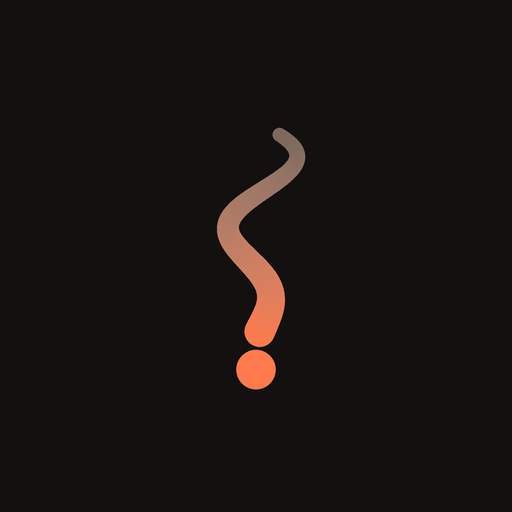
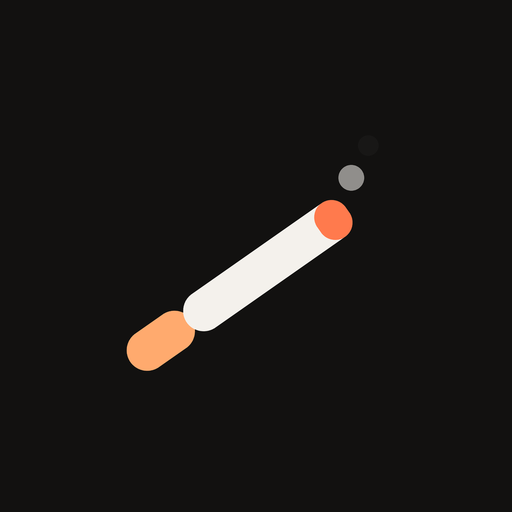
Add files via upload

Changed region(s): [[0.25, 0.25, 0.7188, 0.7812]]

diff --git a/index .html b/index .html
@@ -1,0 +1,238 @@
+<!DOCTYPE html>
+<html lang="en"><head><meta charset="utf-8">
+<meta name="viewport" content="width=device-width, initial-scale=1, viewport-fit=cover">
+<title>Smokies</title>
+<link rel="manifest" href="manifest.webmanifest">
+<meta name="theme-color" content="#121110">
+<meta name="mobile-web-app-capable" content="yes">
+<meta name="apple-mobile-web-app-capable" content="yes">
+<meta name="apple-mobile-web-app-title" content="Smokies">
+<meta name="apple-mobile-web-app-status-bar-style" content="black-translucent">
+<link rel="apple-touch-icon" href="icon-192.png">
+<style>
+:root{--bg:#f4f1ec;--card:#fff;--ink:#1d1b19;--mute:#7a736b;--line:#e8e2da;--acc:#ff6b3d;--soft:#ffe3d8;--good:#2fa36b;--bad:#e5484d;color-scheme:light;box-sizing:border-box;padding-top:env(safe-area-inset-top,0px);padding-bottom:env(safe-area-inset-bottom,0px)}
+@media (prefers-color-scheme:dark){:root:not([data-theme="light"]){--bg:#121110;--card:#1c1a18;--ink:#f3efe9;--mute:#9a9188;--line:#2d2925;--acc:#ff7a4d;--soft:#3a2419;--good:#3ccf8e;--bad:#ff6369;color-scheme:dark}}
+:root[data-theme="dark"]{--bg:#121110;--card:#1c1a18;--ink:#f3efe9;--mute:#9a9188;--line:#2d2925;--acc:#ff7a4d;--soft:#3a2419;--good:#3ccf8e;--bad:#ff6369;color-scheme:dark}
+html{scroll-padding-top:env(safe-area-inset-top,0px)}
+*{box-sizing:border-box}
+body{margin:0;background:var(--bg);color:var(--ink);font-family:-apple-system,BlinkMacSystemFont,"Segoe UI",Roboto,Helvetica,Arial,sans-serif;-webkit-font-smoothing:antialiased}
+.wrap{max-width:720px;margin:0 auto;padding:20px 16px 48px}
+h1{font-size:28px;letter-spacing:-.02em;margin:6px 0 2px}
+.sub{color:var(--mute);font-size:14px;margin:0 0 18px}
+.card{background:var(--card);border:1px solid var(--line);border-radius:22px;padding:18px;margin-bottom:14px}
+.card h2{font-size:12px;text-transform:uppercase;letter-spacing:.09em;color:var(--mute);margin:0 0 12px;font-weight:600}
+.hero{display:flex;align-items:center;gap:18px;flex-wrap:wrap}
+.ring{position:relative;width:150px;height:150px;flex:none}
+.ring .n{position:absolute;inset:0;display:flex;flex-direction:column;align-items:center;justify-content:center}
+.ring .n b{font-size:44px;line-height:1;letter-spacing:-.03em}
+.ring .n span{font-size:12px;color:var(--mute);margin-top:4px}
+.since{flex:1;min-width:160px}
+.since .big{font-size:30px;font-weight:700;letter-spacing:-.02em;font-variant-numeric:tabular-nums}
+.since .lbl{color:var(--mute);font-size:13px}
+.msg{margin-top:10px;font-size:14px;background:var(--soft);padding:9px 12px;border-radius:12px}
+.chips{display:flex;flex-wrap:wrap;gap:8px;margin:0 0 14px}
+.chip{border:1px solid var(--line);background:transparent;color:var(--ink);padding:8px 13px;border-radius:99px;font-size:14px;cursor:pointer;font-family:inherit}
+.chip.on{background:var(--acc);border-color:var(--acc);color:#fff}
+.log{width:100%;border:0;background:var(--acc);color:#fff;font-size:18px;font-weight:700;padding:17px;border-radius:16px;cursor:pointer;font-family:inherit;transition:transform .08s}
+.log:active{transform:scale(.98)}
+.grid{display:grid;grid-template-columns:repeat(2,1fr);gap:10px}
+@media(min-width:560px){.grid{grid-template-columns:repeat(4,1fr)}}
+.stat{background:var(--bg);border-radius:16px;padding:13px}
+.stat b{display:block;font-size:24px;letter-spacing:-.02em;font-variant-numeric:tabular-nums}
+.stat span{font-size:12px;color:var(--mute)}
+.up{color:var(--bad)}.down{color:var(--good)}
+svg{display:block;width:100%;height:auto}
+svg text{fill:var(--mute);font-size:10px;font-family:inherit}
+.legend{display:flex;flex-wrap:wrap;gap:6px 14px;margin-top:10px;font-size:13px}
+.legend i{display:inline-block;width:9px;height:9px;border-radius:50%;margin-right:6px}
+.row{display:flex;align-items:center;justify-content:space-between;padding:10px 0;border-top:1px solid var(--line);font-size:14px}
+.row:first-of-type{border-top:0}
+.row small{color:var(--mute);margin-left:8px}
+.x{background:none;border:0;color:var(--mute);font-size:18px;cursor:pointer;padding:2px 8px}
+.set{display:grid;grid-template-columns:repeat(3,1fr);gap:10px}
+.set label{font-size:12px;color:var(--mute);display:block}
+.set input{width:100%;margin-top:4px;padding:10px;border-radius:12px;border:1px solid var(--line);background:var(--bg);color:var(--ink);font-size:16px;font-family:inherit}
+.reset{margin-top:14px;background:none;border:1px solid var(--line);color:var(--mute);padding:9px 14px;border-radius:12px;cursor:pointer;font-family:inherit}
+.empty{color:var(--mute);font-size:14px;padding:8px 0}
+</style></head>
+<body><div class="wrap">
+<h1>Smokies</h1>
+<p class="sub">Log every cigarette. See the patterns. Bring the number down.</p>
+
+<div class="card">
+  <div class="hero">
+    <div class="ring"><svg viewBox="0 0 150 150"><circle cx="75" cy="75" r="62" fill="none" stroke="var(--line)" stroke-width="14"/><circle id="arc" cx="75" cy="75" r="62" fill="none" stroke="var(--acc)" stroke-width="14" stroke-linecap="round" stroke-dasharray="0 390" transform="rotate(-90 75 75)" style="transition:stroke-dasharray .6s"/></svg>
+      <div class="n"><b id="today">0</b><span id="goalTxt">of 10 today</span></div></div>
+    <div class="since"><div class="lbl">Time since last cigarette</div><div class="big" id="since">—</div><div class="msg" id="msg"></div></div>
+  </div>
+</div>
+
+<div class="card">
+  <h2>What triggered it?</h2>
+  <div class="chips" id="chips"></div>
+  <button class="log" id="logBtn">+ Log a cigarette</button>
+</div>
+
+<div class="card"><h2>At a glance</h2><div class="grid" id="stats"></div></div>
+<div class="card"><h2>Last 14 days</h2><div id="bars"></div></div>
+<div class="card"><h2>When you smoke</h2><div id="hours"></div></div>
+<div class="card"><h2>Deeper insights</h2><div class="grid" id="stats2"></div></div>
+<div class="card"><h2>Weekday pattern</h2><div id="wk"></div></div>
+<div class="card"><h2>12-week heatmap</h2><div id="heat"></div></div>
+<div class="card"><h2>Triggers</h2><div id="donut"></div></div>
+<div class="card"><h2>Recent</h2><div id="recent"></div></div>
+
+<div class="card"><h2>Backup</h2>
+  <button class="reset" id="exp" style="margin:0 8px 0 0">Show my data</button><button class="reset" id="imp" style="margin:0">Import pasted data</button>
+  <textarea id="bk" rows="4" placeholder="Tap Show my data and copy it. To import, paste data here and tap Import." style="width:100%;margin-top:10px;padding:10px;border-radius:12px;border:1px solid var(--line);background:var(--bg);color:var(--ink);font-size:13px;font-family:inherit"></textarea>
+</div>
+<div class="card"><h2>Settings</h2>
+  <div class="set">
+    <div><label>Daily goal</label><input id="goal" type="number" min="0" inputmode="numeric"></div>
+    <div><label>Pack price (₹)</label><input id="price" type="number" min="0" step="0.5" inputmode="decimal"></div>
+    <div><label>Cigs per pack</label><input id="pack" type="number" min="1" inputmode="numeric"></div>
+  </div>
+  <button class="reset" id="reset">Reset all data</button>
+</div>
+</div>
+<script>
+var K='smoke-tracker-v1',S={logs:[],goal:10,price:12,perPack:20},sel=null,armed=false;
+try{var r=localStorage.getItem(K);if(r)S=Object.assign(S,JSON.parse(r))}catch(e){}
+if(S.cur!=='INR'){S.price=350;S.cur='INR'}
+function save(){try{localStorage.setItem(K,JSON.stringify(S))}catch(e){}}
+var TR=['Stress','Coffee','After meal','Social','Boredom','Craving','Other'];
+var COL=['#ff6b3d','#f5a524','#2fa36b','#3b82f6','#8b5cf6','#ec4899','#94a3b8'];
+var $=function(i){return document.getElementById(i)};
+function dk(d){d=new Date(d);return d.getFullYear()+'-'+d.getMonth()+'-'+d.getDate()}
+function daysAgo(n){var d=new Date();d.setHours(12,0,0,0);d.setDate(d.getDate()-n);return d}
+function counts(){var m={};S.logs.forEach(function(l){var k=dk(l.t);m[k]=(m[k]||0)+1});return m}
+function range(n){var m=counts(),a=[];for(var i=n-1;i>=0;i--){var d=daysAgo(i);a.push({d:d,c:m[dk(d)]||0})}return a}
+function money(x){var f=x>=100?0:2;return '₹'+x.toLocaleString('en-IN',{minimumFractionDigits:f,maximumFractionDigits:f})}
+function fmtGap(ms){var m=Math.floor(ms/60000),h=Math.floor(m/60),d=Math.floor(h/24);if(d>=1)return d+'d '+(h%24)+'h';if(h>=1)return h+'h '+(m%60)+'m';return m+'m'}
+
+$('chips').innerHTML=TR.map(function(t){return '<button class="chip" data-t="'+t+'">'+t+'</button>'}).join('');
+$('chips').onclick=function(e){var t=e.target.getAttribute('data-t');if(!t)return;sel=(sel===t)?null:t;
+  [].forEach.call(document.querySelectorAll('.chip'),function(c){c.classList.toggle('on',c.getAttribute('data-t')===sel)})};
+$('logBtn').onclick=function(){S.logs.push({t:Date.now(),tr:sel});sel=null;
+  [].forEach.call(document.querySelectorAll('.chip'),function(c){c.classList.remove('on')});save();render()};
+$('goal').value=S.goal;$('price').value=S.price;$('pack').value=S.perPack;
+$('goal').onchange=function(){S.goal=Math.max(0,+this.value||0);save();render()};
+$('price').onchange=function(){S.price=Math.max(0,+this.value||0);save();render()};
+$('pack').onchange=function(){S.perPack=Math.max(1,+this.value||20);save();render()};
+$('reset').onclick=function(){if(!armed){armed=true;this.textContent='Tap again to erase everything';var b=this;setTimeout(function(){armed=false;b.textContent='Reset all data'},3500);return}
+  S.logs=[];armed=false;this.textContent='Reset all data';save();render()};
+$('recent').onclick=function(e){var t=e.target.getAttribute('data-del');if(!t)return;S.logs=S.logs.filter(function(l){return String(l.t)!==t});save();render()};
+
+function render(){
+  var m=counts(),today=m[dk(new Date())]||0,g=S.goal,cpc=S.price/S.perPack;
+  var pct=g>0?Math.min(today/g,1):(today?1:0),over=g>0?today>g:today>0;
+  var arc=$('arc');arc.style.strokeDasharray=(pct*389.6)+' 390';arc.style.stroke=over?'var(--bad)':'var(--acc)';
+  $('today').textContent=today;$('goalTxt').textContent='of '+g+' today';
+  $('msg').textContent=!S.logs.length?'Log your first cigarette to start the stats.':over?'Over your goal today. Tomorrow is a fresh start.':today>=g*0.8&&g>0?'Close to your limit. Try waiting 10 more minutes.':'You’re within your goal. Keep going.';
+  var r7=range(7),p7=range(14).slice(0,7);
+  var sum=function(a){return a.reduce(function(s,x){return s+x.c},0)};
+  var avg=sum(r7)/7,pavg=sum(p7)/7,total=S.logs.length;
+  var trend=pavg>0?Math.round((avg-pavg)/pavg*100):null;
+  var streak=0;if(S.logs.length){var first=Math.min.apply(null,S.logs.map(function(l){return l.t}));
+    for(var i=0;i<400;i++){var d=daysAgo(i);if(d.getTime()<first-86400000)break;if((m[dk(d)]||0)>g)break;streak++}}
+  var best=0,worst=0;Object.keys(m).forEach(function(k){if(m[k]>worst)worst=m[k]});
+  var todayLogs=S.logs.filter(function(l){return dk(l.t)===dk(new Date())}).map(function(l){return l.t}).sort();
+  var gap='—';if(todayLogs.length>1){var gs=0;for(var j=1;j<todayLogs.length;j++)gs+=todayLogs[j]-todayLogs[j-1];gap=fmtGap(gs/(todayLogs.length-1))}
+  var tr=trend===null?'<span>vs last week: n/a</span>':'<span class="'+(trend>0?'up':'down')+'">'+(trend>0?'▲ ':'▼ ')+Math.abs(trend)+'% vs last week</span>';
+  var cards=[
+    ['<b>'+avg.toFixed(1)+'</b>','7-day average<br>'+tr],
+    ['<b>'+money(today*cpc)+'</b>','Spent today'],
+    ['<b>'+money(sum(r7)*cpc)+'</b>','Spent, last 7 days'],
+    ['<b>'+money(total*cpc)+'</b>','Spent, all time'],
+    ['<b>'+total+'</b>','Total logged'],
+    ['<b>'+streak+'d</b>','Days within goal'],
+    ['<b>'+worst+'</b>','Heaviest day'],
+    ['<b>'+gap+'</b>','Avg gap today']];
+  $('stats').innerHTML=cards.map(function(c){return '<div class="stat">'+c[0]+'<span>'+c[1]+'</span></div>'}).join('');
+
+  // bar chart
+  var R=range(14),mx=Math.max(g,Math.max.apply(null,R.map(function(x){return x.c})),1),H=110,bw=340/14,s='<svg viewBox="0 0 340 135">';
+  R.forEach(function(x,i){var h=x.c/mx*H,y=H-h,c=g>0&&x.c>g?'var(--bad)':'var(--acc)',last=i===13;
+    s+='<rect x="'+(i*bw+4)+'" y="'+y+'" width="'+(bw-8)+'" height="'+Math.max(h,x.c?3:1.5)+'" rx="5" fill="'+(x.c?c:'var(--line)')+'" opacity="'+(last?1:.75)+'"/>';
+    if(x.c)s+='<text x="'+(i*bw+bw/2)+'" y="'+(y-4)+'" text-anchor="middle">'+x.c+'</text>';
+    s+='<text x="'+(i*bw+bw/2)+'" y="128" text-anchor="middle">'+'SMTWTFS'.charAt(x.d.getDay())+'</text>'});
+  if(g>0){var gy=H-g/mx*H;s+='<line x1="0" x2="340" y1="'+gy+'" y2="'+gy+'" stroke="var(--good)" stroke-dasharray="4 4" opacity=".8"/>'}
+  $('bars').innerHTML=s+'</svg>'+'<div class="legend"><span><i style="background:var(--acc)"></i>Within goal</span><span><i style="background:var(--bad)"></i>Over goal</span><span><i style="background:var(--good)"></i>Goal line</span></div>';
+
+  // hour chart
+  var hc=new Array(24).fill(0);S.logs.forEach(function(l){hc[new Date(l.t).getHours()]++});
+  var hm=Math.max.apply(null,hc.concat([1])),pk=hc.indexOf(Math.max.apply(null,hc)),hs='<svg viewBox="0 0 340 100">',w=340/24;
+  hc.forEach(function(c,h){var bh=c/hm*70;hs+='<rect x="'+(h*w+1.5)+'" y="'+(75-bh)+'" width="'+(w-3)+'" height="'+Math.max(bh,2)+'" rx="3" fill="'+(c&&h===pk?'var(--acc)':c?'var(--acc)':'var(--line)')+'" opacity="'+(c?(h===pk?1:.55):1)+'"/>'});
+  [0,6,12,18].forEach(function(h){hs+='<text x="'+(h*w+w/2)+'" y="92" text-anchor="middle">'+(h===0?'12a':h===12?'12p':h>12?(h-12)+'p':h+'a')+'</text>'});
+  var pkTxt=S.logs.length?'Your peak hour is '+(pk%12||12)+(pk<12?' AM':' PM')+'.':'No data yet.';
+  $('hours').innerHTML=hs+'</svg><div class="legend">'+pkTxt+'</div>';
+
+  // donut
+  var tc={};S.logs.forEach(function(l){var k=l.tr||'Untagged';tc[k]=(tc[k]||0)+1});
+  var keys=Object.keys(tc).sort(function(a,b){return tc[b]-tc[a]});
+  if(!keys.length){$('donut').innerHTML='<div class="empty">Tag a trigger when you log to see what drives your smoking.</div>'}
+  else{var C=2*Math.PI*45,off=0,ds='<svg viewBox="0 0 120 120" style="max-width:190px;margin:0 auto"><g transform="rotate(-90 60 60)">',lg='';
+    keys.forEach(function(k){var ix=TR.indexOf(k),col=ix>=0?COL[ix]:'#6b7280',f=tc[k]/total*C;
+      ds+='<circle cx="60" cy="60" r="45" fill="none" stroke="'+col+'" stroke-width="16" stroke-dasharray="'+f+' '+(C-f)+'" stroke-dashoffset="'+(-off)+'"/>';off+=f;
+      lg+='<span><i style="background:'+col+'"></i>'+k+' · '+Math.round(tc[k]/total*100)+'%</span>'});
+    $('donut').innerHTML=ds+'</g><text x="60" y="64" text-anchor="middle" style="font-size:16px;font-weight:700;fill:var(--ink)">'+total+'</text></svg><div class="legend">'+lg+'</div>'}
+
+  // recent
+  var rec=S.logs.slice().sort(function(a,b){return b.t-a.t}).slice(0,8);
+  $('recent').innerHTML=rec.length?rec.map(function(l){var d=new Date(l.t),isT=dk(l.t)===dk(new Date()),
+    lab=(isT?'Today':d.toLocaleDateString([],{month:'short',day:'numeric'}))+' · '+d.toLocaleTimeString([],{hour:'numeric',minute:'2-digit'});
+    return '<div class="row"><div>'+lab+'<small>'+(l.tr||'')+'</small></div><button class="x" data-del="'+l.t+'" aria-label="Delete">×</button></div>'}).join(''):'<div class="empty">Nothing logged yet.</div>';
+  extra(m,cpc,g);tick()}
+function extra(m,cpc,g){
+  var L=S.logs.slice().sort(function(a,b){return a.t-b.t}),n=L.length,i,d;
+  if(!n){$('stats2').innerHTML='<div class="empty" style="grid-column:1/-1">Insights appear once you log a few cigarettes.</div>';$('wk').innerHTML='';$('heat').innerHTML='';return}
+  var first=new Date(L[0].t);first.setHours(12,0,0,0);
+  var span=Math.max(1,Math.round((daysAgo(0)-first)/86400000)+1);
+  var lg=0;for(i=1;i<n;i++)lg=Math.max(lg,L[i].t-L[i-1].t);
+  var byd={},fs=[],ls=[];L.forEach(function(l){var k=dk(l.t);(byd[k]=byd[k]||[]).push(l.t)});
+  Object.keys(byd).forEach(function(k){var a=byd[k],f=new Date(a[0]),z=new Date(a[a.length-1]);fs.push(f.getHours()*60+f.getMinutes());ls.push(z.getHours()*60+z.getMinutes())});
+  var av=function(a){return a.reduce(function(s,x){return s+x},0)/a.length};
+  var clk=function(mn){mn=Math.round(mn);var h=Math.floor(mn/60)%24,mi=mn%60;return (h%12||12)+':'+(mi<10?'0':'')+mi+(h<12?' AM':' PM')};
+  var d30=range(Math.min(30,span)),hit=d30.filter(function(x){return x.c<=g}).length,free=0,saved=0;
+  for(i=0;i<span;i++){if(!m[dk(daysAgo(i))])free++}
+  for(i=1;i<span;i++){saved+=Math.max(g-(m[dk(daysAgo(i))]||0),0)}
+  var a7=range(7).reduce(function(s,x){return s+x.c},0)/7,now=new Date();
+  var mc=L.filter(function(l){var q=new Date(l.t);return q.getMonth()===now.getMonth()&&q.getFullYear()===now.getFullYear()}).length;
+  var wd=[0,0,0,0,0,0,0],wn=[0,0,0,0,0,0,0];
+  for(i=0;i<span;i++){d=daysAgo(i);wd[d.getDay()]+=m[dk(d)]||0;wn[d.getDay()]++}
+  var wa=wd.map(function(x,j){return wn[j]?x/wn[j]:0});
+  var wkE=(wa[0]+wa[6])/2,wkD=(wa[1]+wa[2]+wa[3]+wa[4]+wa[5])/5;
+  var cards=[
+    [fmtGap(lg),'Longest smoke-free stretch'],
+    [clk(av(fs)),'Avg first cigarette'],
+    [clk(av(ls)),'Avg last cigarette'],
+    [(n/span).toFixed(1),'Daily average, all time'],
+    [Math.round(hit/d30.length*100)+'%','Goal hit rate, last 30 days'],
+    [String(free),'Smoke-free days'],
+    [String(saved),'Cigarettes under goal'],
+    [money(saved*cpc),'Saved vs your goal'],
+    [mc+' · '+money(mc*cpc),'This month'],
+    [money(a7*30*cpc),'Projected monthly cost'],
+    [money(a7*365*cpc),'Projected yearly cost'],
+    [wkE.toFixed(1)+' / '+wkD.toFixed(1),'Weekend vs weekday avg'],
+    [Math.round(n*11/60)+'h','Rough life-time cost (~11 min each)']];
+  $('stats2').innerHTML=cards.map(function(c){return '<div class="stat"><b style="font-size:20px">'+c[0]+'</b><span>'+c[1]+'</span></div>'}).join('');
+  var names=['Sun','Mon','Tue','Wed','Thu','Fri','Sat'],full=['Sundays','Mondays','Tuesdays','Wednesdays','Thursdays','Fridays','Saturdays'];
+  var wm=Math.max.apply(null,wa.concat([.1])),pk=wa.indexOf(Math.max.apply(null,wa)),bw=340/7,s='<svg viewBox="0 0 340 125">';
+  wa.forEach(function(v,j){var h=v/wm*80;s+='<rect x="'+(j*bw+8)+'" y="'+(95-h)+'" width="'+(bw-16)+'" height="'+Math.max(h,2)+'" rx="7" fill="'+(v?'var(--acc)':'var(--line)')+'" opacity="'+(j===pk?1:.55)+'"/><text x="'+(j*bw+bw/2)+'" y="'+(90-h)+'" text-anchor="middle">'+v.toFixed(1)+'</text><text x="'+(j*bw+bw/2)+'" y="114" text-anchor="middle">'+names[j]+'</text>'});
+  $('wk').innerHTML=s+'</svg><div class="legend">Average per day. Heaviest: '+full[pk]+'.</div>';
+  var hmx=Math.max(g,1),dow=now.getDay(),hs='<svg viewBox="0 0 340 205">';
+  for(i=0;i<Object.keys(m).length;i++){}
+  Object.keys(m).forEach(function(k){hmx=Math.max(hmx,m[k])});
+  for(var c=0;c<12;c++){for(var r=0;r<7;r++){var off=(11-c)*7+(dow-r);if(off<0)continue;var dd=daysAgo(off),cc=m[dk(dd)]||0;
+    hs+='<rect x="'+(c*28.4+2)+'" y="'+(r*28+2)+'" width="25" height="25" rx="7" fill="'+(cc?(g>0&&cc>g?'var(--bad)':'var(--acc)'):'var(--line)')+'" opacity="'+(cc?(.3+.7*cc/hmx).toFixed(2):1)+'"/>'}}
+  $('heat').innerHTML=hs+'</svg><div class="legend">Each square is a day, oldest on the left. Darker means more; red means over goal.</div>';
+}
+function tick(){if(!S.logs.length){$('since').textContent='—';return}
+  var last=Math.max.apply(null,S.logs.map(function(l){return l.t}));$('since').textContent=fmtGap(Date.now()-last)}
+$('exp').onclick=function(){var b=$('bk');b.value=JSON.stringify(S);b.focus();b.select();try{navigator.clipboard.writeText(b.value)}catch(e){}};
+$('imp').onclick=function(){var b=$('bk');try{var o=JSON.parse(b.value);if(!Array.isArray(o.logs))throw 0;var seen={};S.logs.forEach(function(l){seen[l.t]=1});o.logs.forEach(function(l){if(l&&l.t&&!seen[l.t]){S.logs.push({t:+l.t,tr:l.tr||null});seen[l.t]=1}});
+  if(o.goal!=null)S.goal=o.goal;if(o.price!=null)S.price=o.price;if(o.perPack!=null)S.perPack=o.perPack;S.cur='INR';save();location.reload()}catch(e){b.value='';b.placeholder='That doesn’t look like valid data.'}};
+render();setInterval(tick,30000);
+</script><script>if('serviceWorker' in navigator){window.addEventListener('load',function(){navigator.serviceWorker.register('sw.js').catch(function(){})})}</script>
+</body></html>
